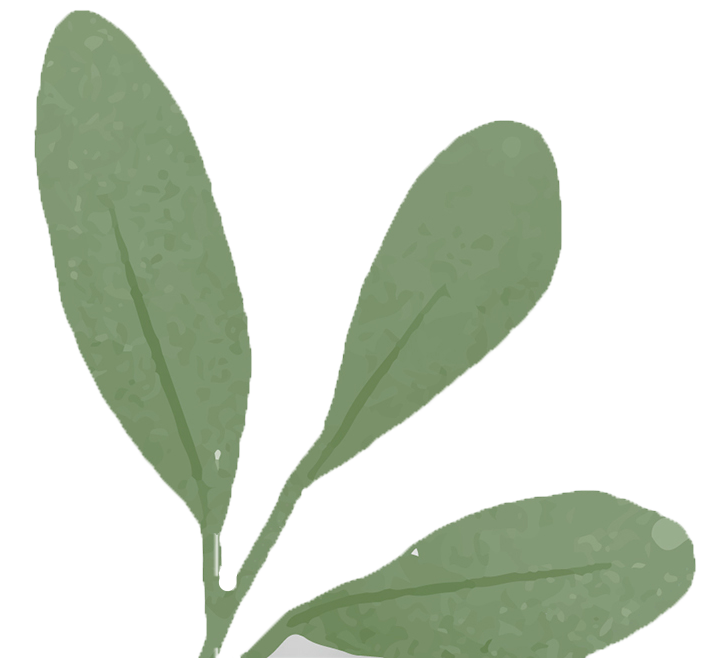
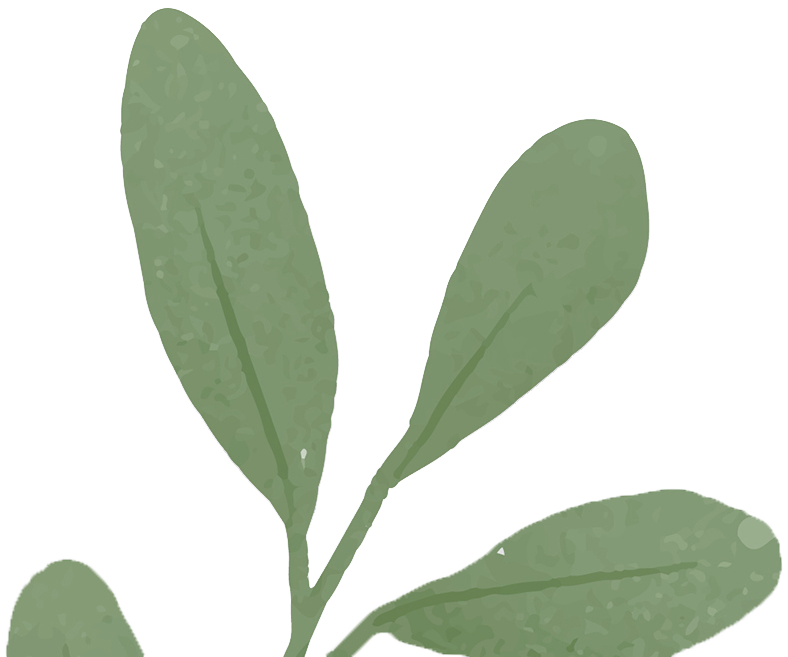
main revise

diff --git a/src/App.css b/src/App.css
@@ -28,7 +28,6 @@
 .main_back_img_left_wrap {
     position: absolute;
     /* background-color: aqua; */
-    width: 20%;
     height: 60%;
     top: 100px;
     left: 0px;
@@ -38,7 +37,7 @@
 }
 
 .main_back_img_left_wrap>img {
-    width: 300px;
+    width: 330px;
     height: 300px;
     margin-bottom: -20px;
 }
@@ -95,14 +94,14 @@
 }
 
 .main_recommend_plant_title {
-    font: bold 9rem "Titillium Web", sans-serif;
+    font: bold 10rem "Titillium Web", sans-serif;
     color: rgb(61, 61, 61);
 }
 
 .main_recommend_plant_subtitle {
     text-align: center;
     margin: -30px 0px 50px 0px;
-    font: bold 1rem "Titillium Web", sans-serif;
+    font: bold 1.2rem "Titillium Web", sans-serif;
     color: rgb(61, 61, 61);
 }
 
@@ -110,14 +109,14 @@
 
 .main_recommend_plant_button {
     border-radius: 30px;
-    color: #a0af74;
-    border: 3px solid #a0af74;
+    color: #5E7B63;
+    border: 4px solid #5E7B63;
     background-color: transparent;
     width: 200px;
     height: 65px;
     padding: 10px;
     cursor: pointer;
-    font: 500 1.3rem "Titillium Web", sans-serif;
+    font: bold 1.4rem "Titillium Web", sans-serif;
 }
 
 

diff --git a/src/App.js b/src/App.js
@@ -21,7 +21,7 @@ function App() {
         scrub: true,
         markers: false,
       },
-      x: "-300px",
+      x: "-330px",
       ease: "power1.inOut", // 애니메이션 효과 조절
     });
 
